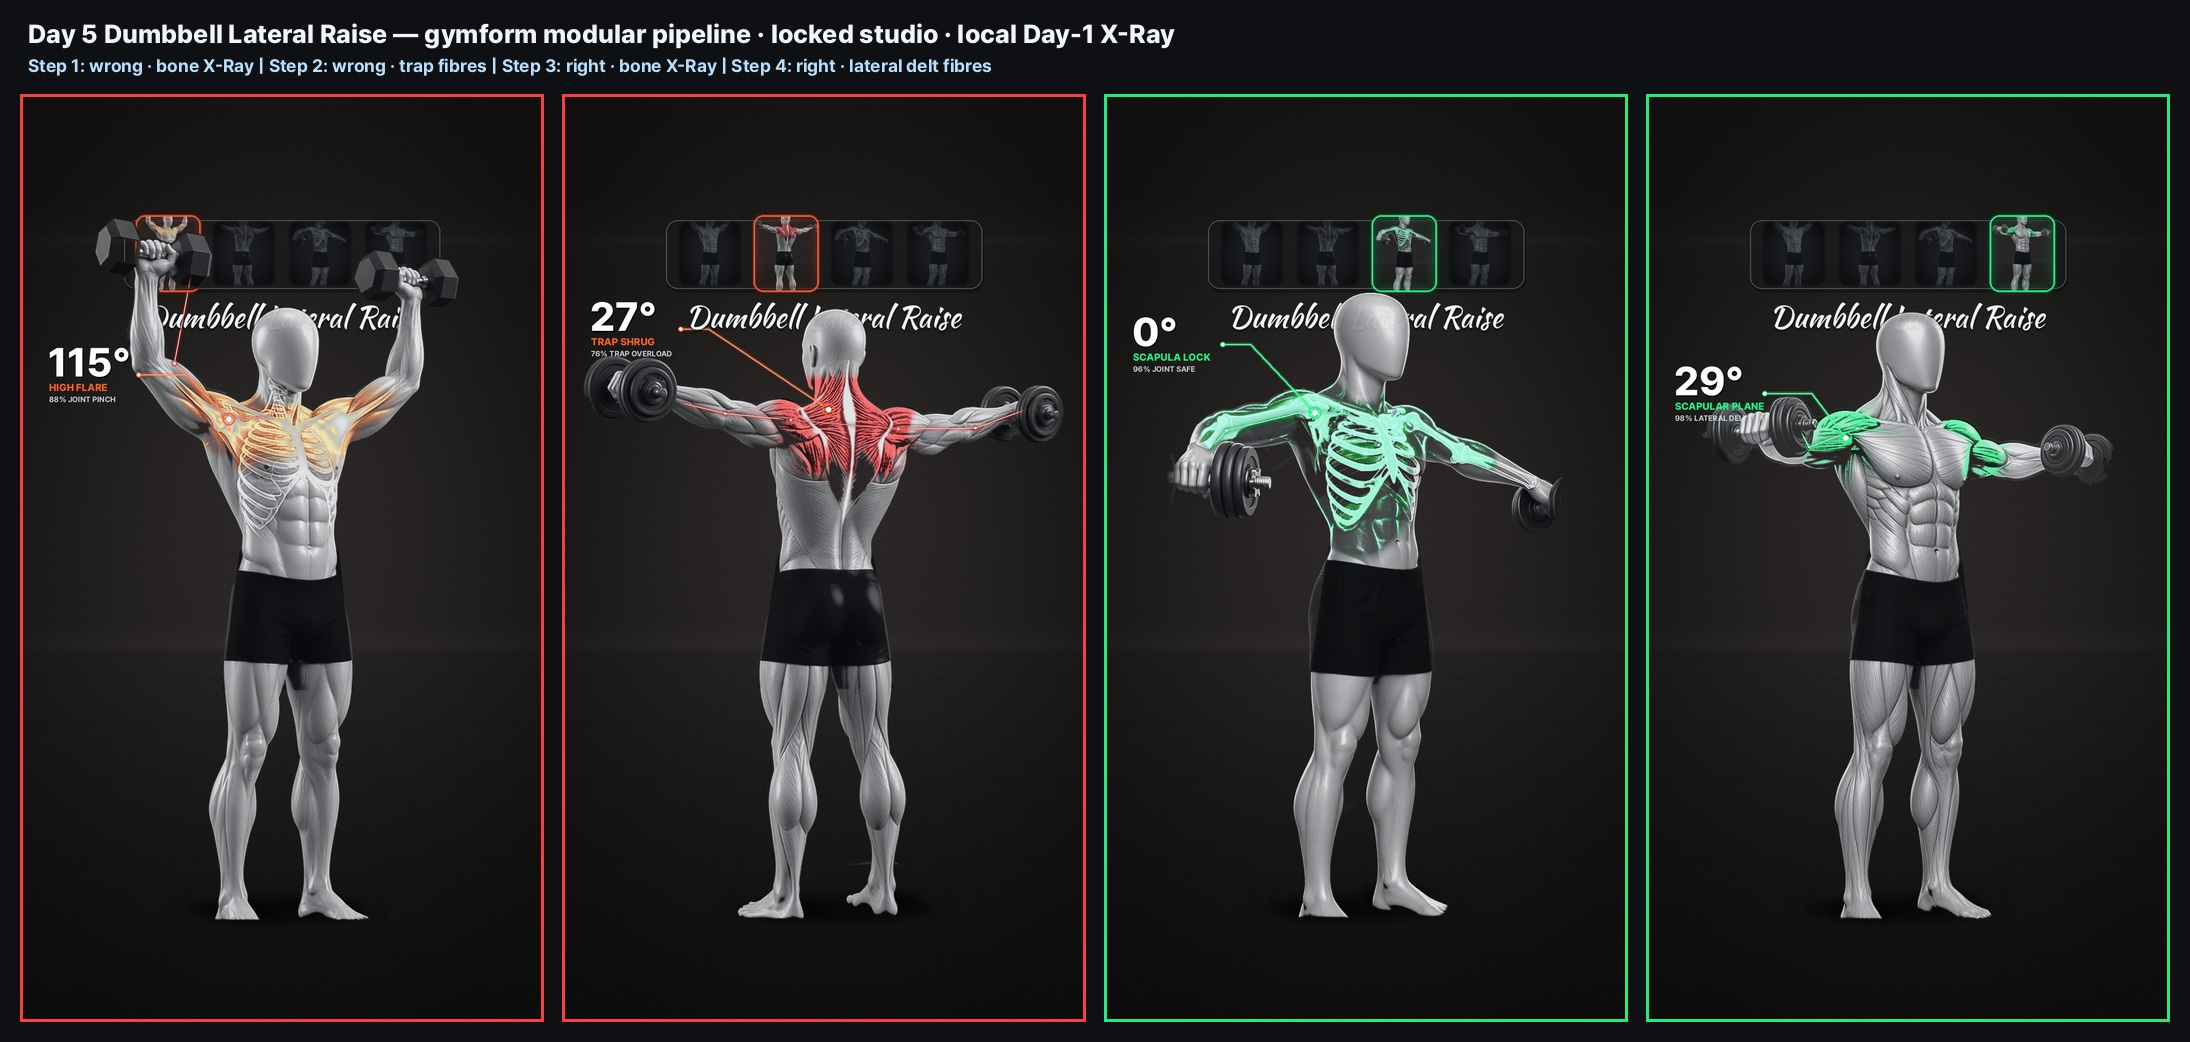
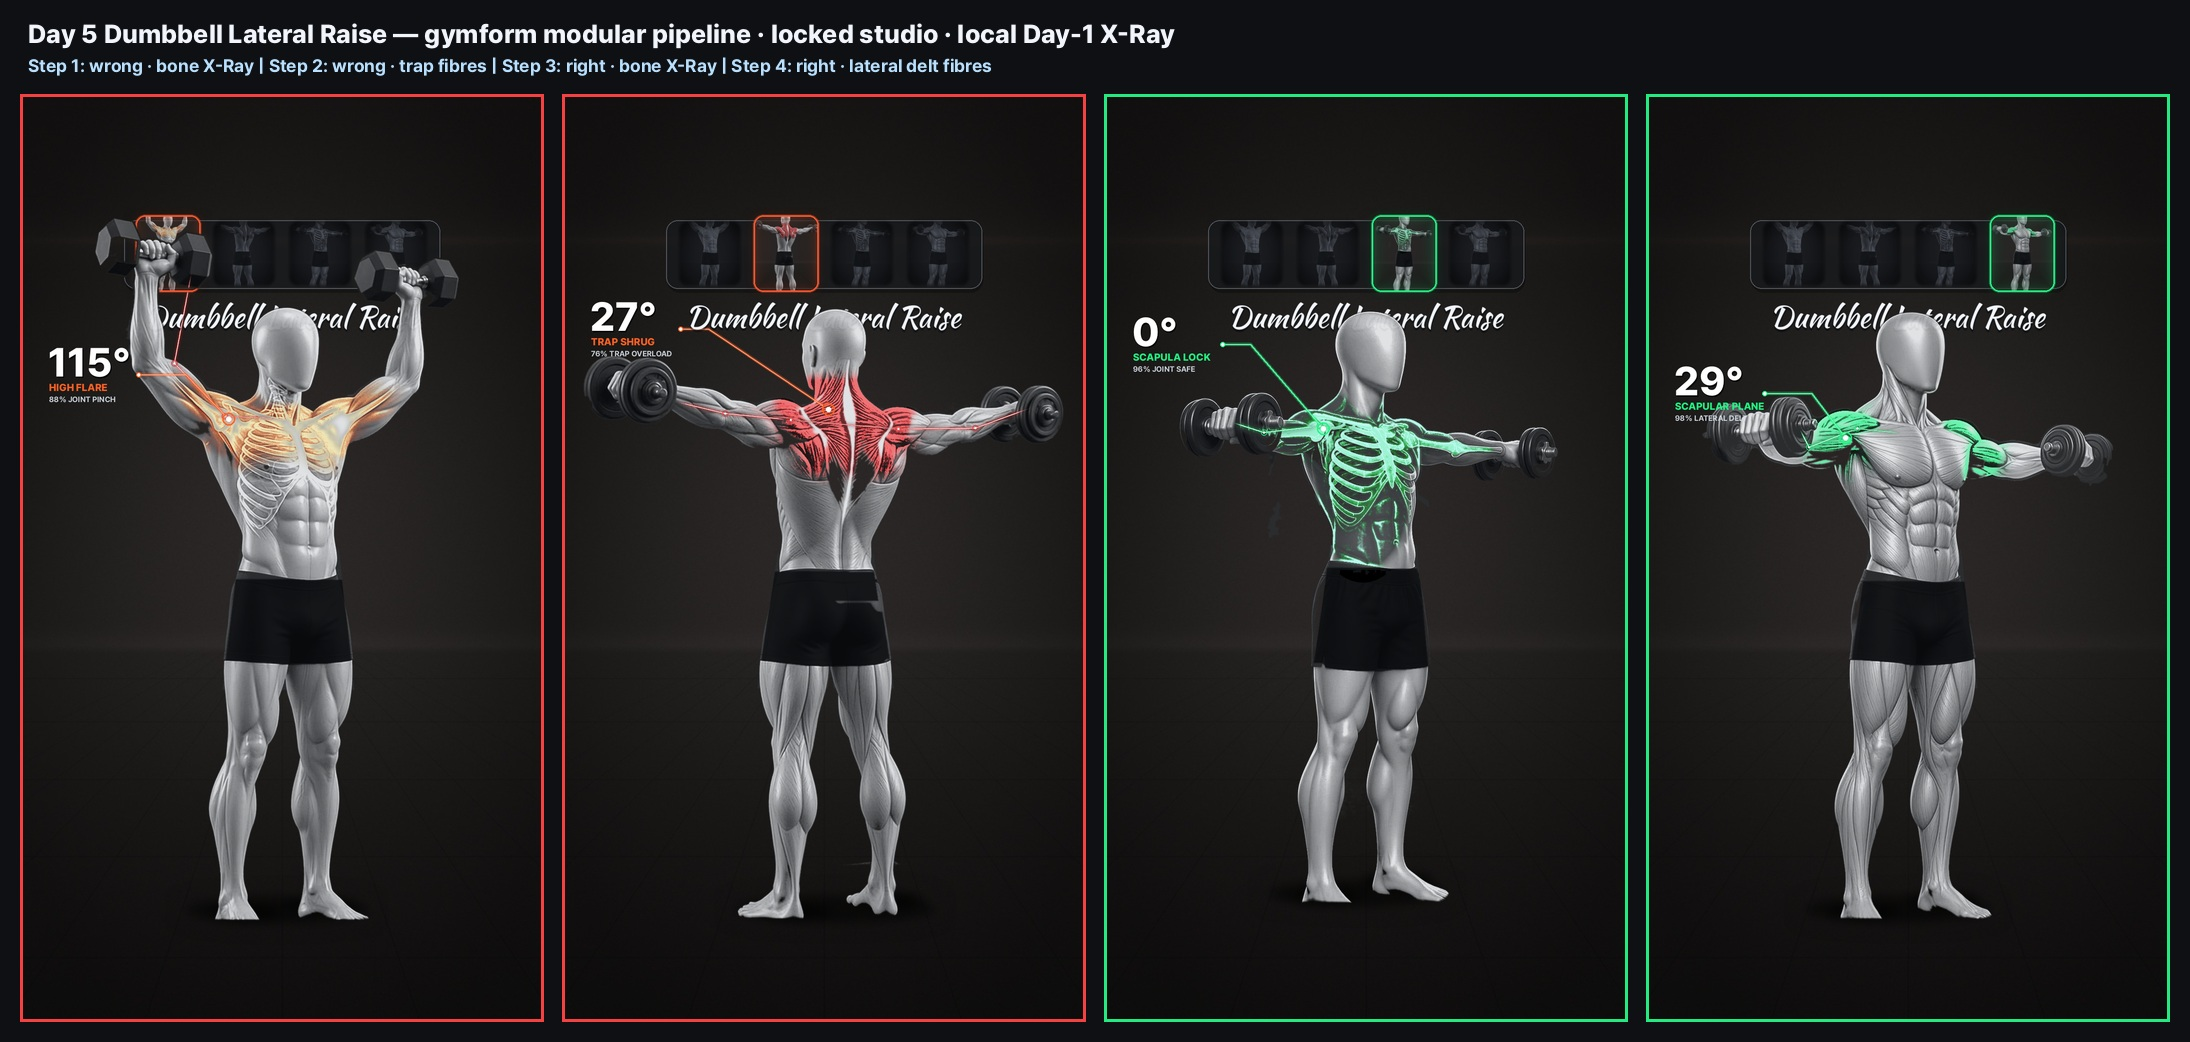
Day5 v5: clean shorts hem/waistband by construction (horizontal fabric opening, band-top cut, highlight fill), torso segment clipped above hips, QC (k) leg skin below hem; Step3 clip v3 (arms at shoulder height)

diff --git a/gymform/mask.py b/gymform/mask.py
@@ -139,7 +139,10 @@ def skin_segments(kp):
         kn, an = kp[f"kn_{side}"], kp[f"ank_{side}"]
         hip = kp[f"hip_{side}"]
         cv2.line(m, P(_ext(hip, kn, 0.78)), P(an), 1, 30)      # knee..ankle (below the shorts)
-    cv2.line(m, P(sh_m), P(hip_m), 1, int(max(40, 0.45 * sw)))  # torso core above the hip band
+    t = np.zeros((H, W), np.uint8)
+    cv2.line(t, P(sh_m), P(hip_m), 1, int(max(40, 0.45 * sw)))  # torso core above the hip band
+    t[max(0, int(hip_y - 135.0)):] = 0                             # never reaches into the shorts (no round cap on the waistband)
+    m |= t
     return m.astype(np.float32)
 
 
@@ -217,7 +220,39 @@ def finalize(F, K, foot):
     dark_low_sat = np.clip((68.0 - lum) / 18.0, 0.0, 1.0) * np.clip((0.28 - sat) / 0.14, 0.0, 1.0) * np.clip((18.0 - act_dom) / 12.0, 0.0, 1.0)
     shorts_mask = cv2.GaussianBlur((shorts_band * dark_low_sat * (w_fg > 0.25)).astype(np.float32), (0, 0), 2.0)
     shorts_mask = np.clip(shorts_mask * 1.35, 0.0, 1.0)
-    shorts_mask = shorts_mask * (1.0 - np.clip(eq_solid * 1.5, 0.0, 1.0))   # equipment beside the hips is never "shorts"
+    # equipment beside the hips is never "shorts"; inside the hip-band polygon (which already excludes the hanging
+    # arms/hands/dumbbells) the fabric wins, so a footprint that picked up moving fabric cannot punch holes in it
+    poly_in = cv2.erode((K["shorts_poly"] > 0.5).astype(np.uint8), np.ones((9, 9), np.uint8)).astype(np.float32)
+    shorts_mask = shorts_mask * (1.0 - np.clip(eq_solid * 1.5, 0.0, 1.0) * (1.0 - poly_in))
     # shorts only inside the hip-band polygon, never on a skin segment (correct by construction)
     shorts_mask = shorts_mask * np.clip(cv2.GaussianBlur(K["shorts_poly"], (0, 0), 2.0) * 1.5, 0.0, 1.0) * (1.0 - K["skin_seg"])
+    # clean hem: shorts fabric rows are wide horizontal runs; a narrow vertical tongue below the hem is the
+    # shadowed inner thigh, never fabric. A 61px-wide horizontal opening keeps only real fabric rows.
+    fab = cv2.morphologyEx((shorts_mask > 0.5).astype(np.uint8), cv2.MORPH_OPEN, np.ones((1, 61), np.uint8))
+    fab = cv2.morphologyEx(fab, cv2.MORPH_CLOSE, np.ones((7, 7), np.uint8))   # re-join the fabric body
+    shorts_mask = shorts_mask * cv2.GaussianBlur(cv2.dilate(fab, np.ones((3, 3), np.uint8)).astype(np.float32), (0, 0), 1.0)
+    # fabric highlights (lum > 68) inside the fabric are still fabric: enclosed gaps in the fabric are filled
+    fc = cv2.morphologyEx(fab, cv2.MORPH_CLOSE, cv2.getStructuringElement(cv2.MORPH_ELLIPSE, (25, 25)))
+    ff = np.pad(fc, 1).copy()
+    cv2.floodFill(ff, None, (0, 0), 2)
+    fill = ((ff[1:-1, 1:-1] != 2) & (K["shorts_poly"] > 0.5)).astype(np.float32)
+    # clean waistband top: the real band starts at the first row where the opened fabric spans >=70% of the
+    # polygon width; anything above (dark fibre texture / shadows on the lower back) is skin, never shorts
+    ys_p = np.where(K["shorts_poly"].max(axis=1) > 0.5)[0]
+    top = np.ones((H, 1), np.float32)
+    if len(ys_p):
+        pw = np.maximum((K["shorts_poly"] > 0.5).sum(axis=1), 1)
+        cov = ((fab > 0) & (K["shorts_poly"] > 0.5)).sum(axis=1) / pw
+        rows = np.where((cov >= 0.70) & (np.arange(H) >= ys_p[0]))[0]
+        if len(rows):
+            band_top = int(rows[0])
+            top[:max(0, band_top - 2)] = 0.0
+            # waistband highlights (shiny elastic, lum < 125) in the top 60px of the band are fabric too, so the
+            # band is never punched by a highlight notch
+            hl = np.zeros((H, W), np.float32)
+            hl[band_top: band_top + 60] = 1.0
+            fill = np.maximum(fill, hl * poly_in * ((lum < 125.0) & (act_dom < 18.0)).astype(np.float32))
+    topm = cv2.GaussianBlur(np.repeat(top, W, 1), (0, 0), 1.2)
+    shorts_mask = np.maximum(shorts_mask, cv2.GaussianBlur(fill, (0, 0), 1.0) * (1.0 - K["skin_seg"]) * (1.0 - np.clip(eq_solid * 1.5, 0, 1) * (1.0 - poly_in)))
+    shorts_mask = shorts_mask * topm
     return w_fg, eq_solid, shorts_mask

diff --git a/gymform/qc.py b/gymform/qc.py
@@ -217,6 +217,37 @@ def arm_skin_check(base, wfg, eq, xw, kp):
     return out
 
 
+def leg_below_hem_check(base, wfg, shorts, kp, eqfoot=None, src=None):
+    """(k) leg skin segments below the shorts hem: no dark (lum < 60) pixels. The hem of each leg is the last row
+    where the shorts cover >= 60% of a band around the thigh line (a narrow tongue below the hem does not move it)."""
+    l = lum_of(base.astype(np.float32))
+    out = {}
+    P = lambda p: (int(round(p[0])), int(round(p[1])))
+    for side in ("r", "l"):
+        hip, kn, an = kp[f"hip_{side}"], kp[f"kn_{side}"], kp[f"ank_{side}"]
+        hem = int(hip[1])
+        for y in range(int(hip[1]), int(kn[1])):
+            t = (y - hip[1]) / max(1.0, kn[1] - hip[1])
+            x = int(hip[0] + t * (kn[0] - hip[0]))
+            band = shorts[y, max(0, x - 40):x + 41]
+            if band.size and (band > 0.5).mean() >= 0.6:
+                hem = y
+        m = np.zeros((H, W), np.uint8)
+        cv2.line(m, P(hip), P(kn), 1, 70); cv2.line(m, P(kn), P(an), 1, 50)
+        m[:hem + 5] = 0
+        sel = (m > 0) & (wfg > 0.9)
+        if eqfoot is not None:   # hands/dumbbells resting beside the thigh are not leg skin
+            sel &= ~(cv2.dilate((eqfoot > 0.3).astype(np.uint8), np.ones((41, 41), np.uint8)) > 0)
+        dark = (l < 60.0) & sel
+        if src is not None:   # a FILL = rendered dark where the source is not (held-still dumbbells/creases are dark in the source too)
+            dark &= lum_of(src.astype(np.float32)) - l > 12.0
+        dk = cv2.morphologyEx(dark.astype(np.uint8), cv2.MORPH_OPEN, np.ones((3, 3), np.uint8))
+        n_, _, st_, _ = cv2.connectedComponentsWithStats(dk)
+        blob = int(max([st_[i, cv2.CC_STAT_AREA] for i in range(1, n_)] or [0]))   # largest dark blob (creases are tiny)
+        out[side] = (hem, blob, int(sel.sum()))
+    return out
+
+
 def main():
     ap = argparse.ArgumentParser()
     ap.add_argument("mp4")
@@ -348,6 +379,11 @@ def main():
             # silver range: shaded silver .. highlight (spec curve 46..226); a black fill sits far below it
             if blob > 250 or (npx > 800 and not (100.0 <= p75a <= 215.0)):
                 arm_fail.append(ARM_ROWS[-1])
+        # (k) legs below the shorts hem: silver skin, no dark leak
+        for side, (hem, ndk, npx) in leg_below_hem_check(base, wfg, shorts, kp, load_mask(pre + "_eqfoot.png"), cv2.cvtColor(cv2.imread(pre + "_src.png"), cv2.COLOR_BGR2RGB)).items():
+            LEG_ROWS.append(f"{key} {side}: hem y={hem} dark={ndk}px/{npx}px")
+            if ndk > 40:
+                leg_fail.append(LEG_ROWS[-1])
         # (f) skin + shorts
         # (spec: the skin lock excludes only the local X-Ray window, same mask as (i))
         skin = (wfg > 0.9) & (shorts < 0.2) & (act_of(base) < 12.0) & (l > 46.0) & (eq < 0.5) & ~xw_d
@@ -376,6 +412,7 @@ def main():
            "; ".join(ui_fail) or (" | ".join(H_ROWS) if H_ROWS else "no equipment under UI in sampled frames"))
     report("(j) both arms silver skin, no dark fill (keypoint segments)", not arm_fail,
            "; ".join(arm_fail) or " | ".join(ARM_ROWS))
+    report("(k) no dark pixels in leg skin below the shorts hem", not leg_fail, "; ".join(leg_fail) or " | ".join(LEG_ROWS[:8]))
     for key, is_bone, ncol, detail, ok in RESULTS_E:
         report(f"(e) {key} {'bone X-Ray' if is_bone else 'muscle fibers'} present/readable", ok, f"coloured px={ncol}, edge detail={detail:.1f}")
     report("(f) skin p75~165/p90~191, shorts 10..22", not skin_fail, " | ".join(SKIN))
@@ -413,7 +450,7 @@ def main():
     sys.exit(0 if all(RESULTS) else 1)
 
 
-RESULTS_E, SKIN, EQ_ROWS, H_ROWS, LOCK, ARM_ROWS, arm_fail = [], [], [], [], {}, [], []
+RESULTS_E, SKIN, EQ_ROWS, H_ROWS, LOCK, ARM_ROWS, arm_fail, LEG_ROWS, leg_fail = [], [], [], [], {}, [], [], [], []
 
 if __name__ == "__main__":
     main()
